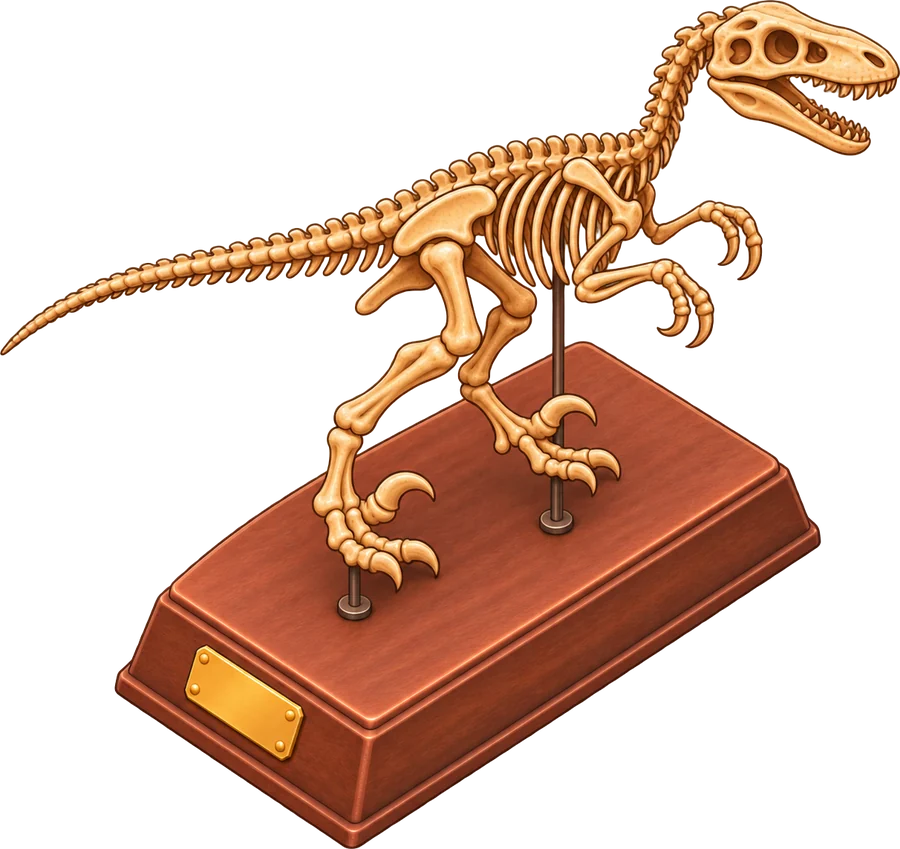
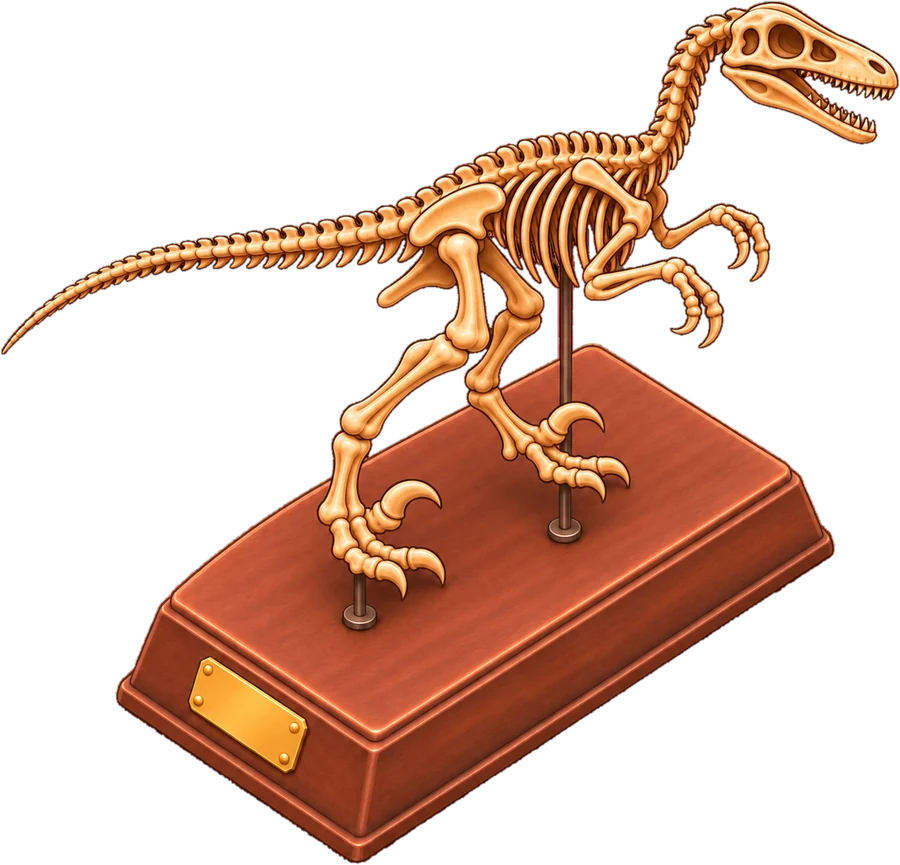
Museumshalle: Velociraptor mit schlankem Schädel
Claude-Session: https://claude.ai/code/session_01UZ49mRRMnRHWRQ5bRbCUMB

diff --git a/src/game.html b/src/game.html
@@ -1563,7 +1563,7 @@ function renderShop(){
    Isometrische Halle: fertige Skelette frei aufstellen, verschieben und drehen (gespiegelt).
    Bilder ex_<id>.webp, Sockel-Messpunkte in HALLMETA (neu erzeugen mit tools/hall/meta.py).
    Spielstand: S.hall={n:Kantenlänge in Feldern, it:{id:[i,j,gedreht]}} */
-const HALLMETA={"allo":[900,872,343,870,95,701,820,561],"anky":[900,739,311,736,49,556,890,355],"arch":[900,900,360,872,122,711,800,581],"brac":[900,900,340,899,136,784,732,686],"coel":[900,874,319,871,87,714,827,558],"dime":[882,900,307,899,19,714,881,542],"dipl":[900,653,231,650,89,556,861,262],"edap":[900,900,326,895,50,708,890,540],"eora":[900,900,382,741,250,664,641,616],"herr":[900,823,320,820,79,655,838,501],"icht":[900,728,224,726,47,608,845,396],"igua":[900,842,288,839,59,676,877,489],"inos":[900,878,299,876,1,679,879,512],"meso":[900,832,278,830,27,663,881,464],"mosa":[900,779,207,776,29,667,887,427],"noth":[896,900,273,898,60,753,817,564],"pars":[900,899,305,896,59,733,873,551],"plat":[899,900,288,898,33,725,857,559],"pter":[900,781,276,779,74,633,811,459],"rham":[900,790,289,789,99,662,795,493],"scut":[900,819,309,816,1,617,884,459],"spin":[900,900,300,872,80,712,847,527],"steg":[899,900,339,898,68,716,852,558],"trex":[900,900,360,877,109,716,830,566],"tric":[888,900,325,899,37,701,886,531],"velo":[900,849,351,848,115,685,819,538]};   // [w,h, Sockel vorne x,y, links x,y, rechts x,y]  (tools/hall/meta.py)
+const HALLMETA={"allo":[900,872,343,870,95,701,820,561],"anky":[900,739,311,736,49,556,890,355],"arch":[900,900,360,872,122,711,800,581],"brac":[900,900,340,899,136,784,732,686],"coel":[900,874,319,871,87,714,827,558],"dime":[882,900,307,899,19,714,881,542],"dipl":[900,653,231,650,89,556,861,262],"edap":[900,900,326,895,50,708,890,540],"eora":[900,900,382,741,250,664,641,616],"herr":[900,823,320,820,79,655,838,501],"icht":[900,728,224,726,47,608,845,396],"igua":[900,842,288,839,59,676,877,489],"inos":[900,878,299,876,1,679,879,512],"meso":[900,832,278,830,27,663,881,464],"mosa":[900,779,207,776,29,667,887,427],"noth":[896,900,273,898,60,753,817,564],"pars":[900,899,305,896,59,733,873,551],"plat":[899,900,288,898,33,725,857,559],"pter":[900,781,276,779,74,633,811,459],"rham":[900,790,289,789,99,662,795,493],"scut":[900,819,309,816,1,617,884,459],"spin":[900,900,300,872,80,712,847,527],"steg":[899,900,339,898,68,716,852,558],"trex":[900,900,360,877,109,716,830,566],"tric":[888,900,325,899,37,701,886,531],"velo":[900,865,355,862,117,696,833,548]};   // [w,h, Sockel vorne x,y, links x,y, rechts x,y]  (tools/hall/meta.py)
 const HALL_SZ={dime:3,edap:3,scut:3,inos:3,meso:2,plat:4,herr:3,coel:3,eora:2,noth:3,arch:2,allo:4,steg:4,brac:5,dipl:5,icht:3,rham:2,
   tric:4,velo:2,anky:4,spin:5,trex:5,pter:3,mosa:5,pars:4,igua:4,gast:3,basi:5,darw:2,prop:2,andr:4,prac:5,mamm:4,smil:3,nash:3,baer:3,megl:3,glyp:3};   // Sockellänge in Feldern
 const HT=64,HTH=HT*.645,HWALL=150;   // Feldbreite und -höhe, Wandhöhe (in Weltpunkten)
